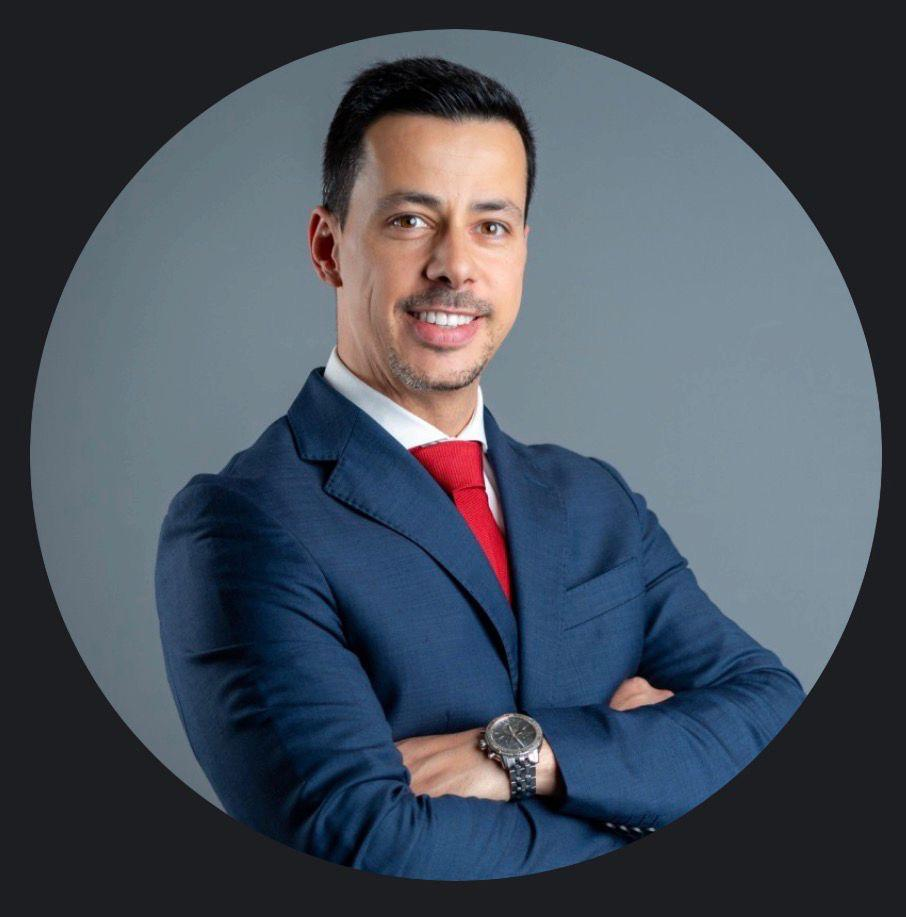
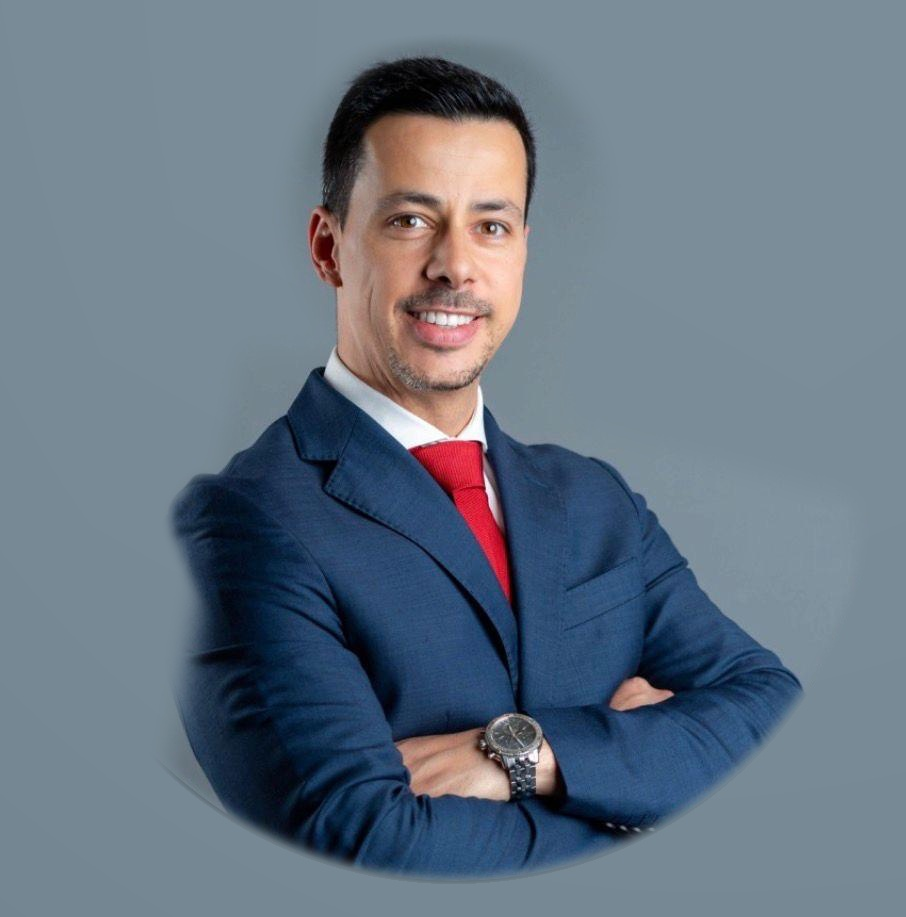
Refine Diogo headshot crop

diff --git a/client/src/components/CommitteeSection.tsx b/client/src/components/CommitteeSection.tsx
@@ -19,7 +19,16 @@ const HEADSHOTS: Record<string, string> = {
 };
 
 const HEADSHOT_POSITIONS: Record<string, string> = {
+  'Diogo Vaz Martins': 'center center',
   'Casimiro Gonçalves': 'center 22%',
+};
+
+const HEADSHOT_TRANSFORMS: Record<string, string> = {
+  'Diogo Vaz Martins': 'scale(1.45)',
+};
+
+const HEADSHOT_TRANSFORM_ORIGINS: Record<string, string> = {
+  'Diogo Vaz Martins': 'center top',
 };
 
 interface CommitteeProps {
@@ -87,8 +96,14 @@ export default function CommitteeSection({ t }: CommitteeProps) {
                 <img
                   src={HEADSHOTS[member.name] ?? PLACEHOLDER_AVATAR}
                   alt={member.name}
-                  className="w-full h-full object-cover object-top transition-transform duration-500 group-hover:scale-105"
-                  style={{ objectPosition: HEADSHOT_POSITIONS[member.name] ?? 'center top' }}
+                  className={`w-full h-full object-cover object-top transition-transform duration-500 ${
+                    member.name === 'Diogo Vaz Martins' ? '' : 'group-hover:scale-105'
+                  }`}
+                  style={{
+                    objectPosition: HEADSHOT_POSITIONS[member.name] ?? 'center top',
+                    transform: HEADSHOT_TRANSFORMS[member.name],
+                    transformOrigin: HEADSHOT_TRANSFORM_ORIGINS[member.name],
+                  }}
                 />
                 {/* Gradient at bottom for name overlay feel */}
                 <div